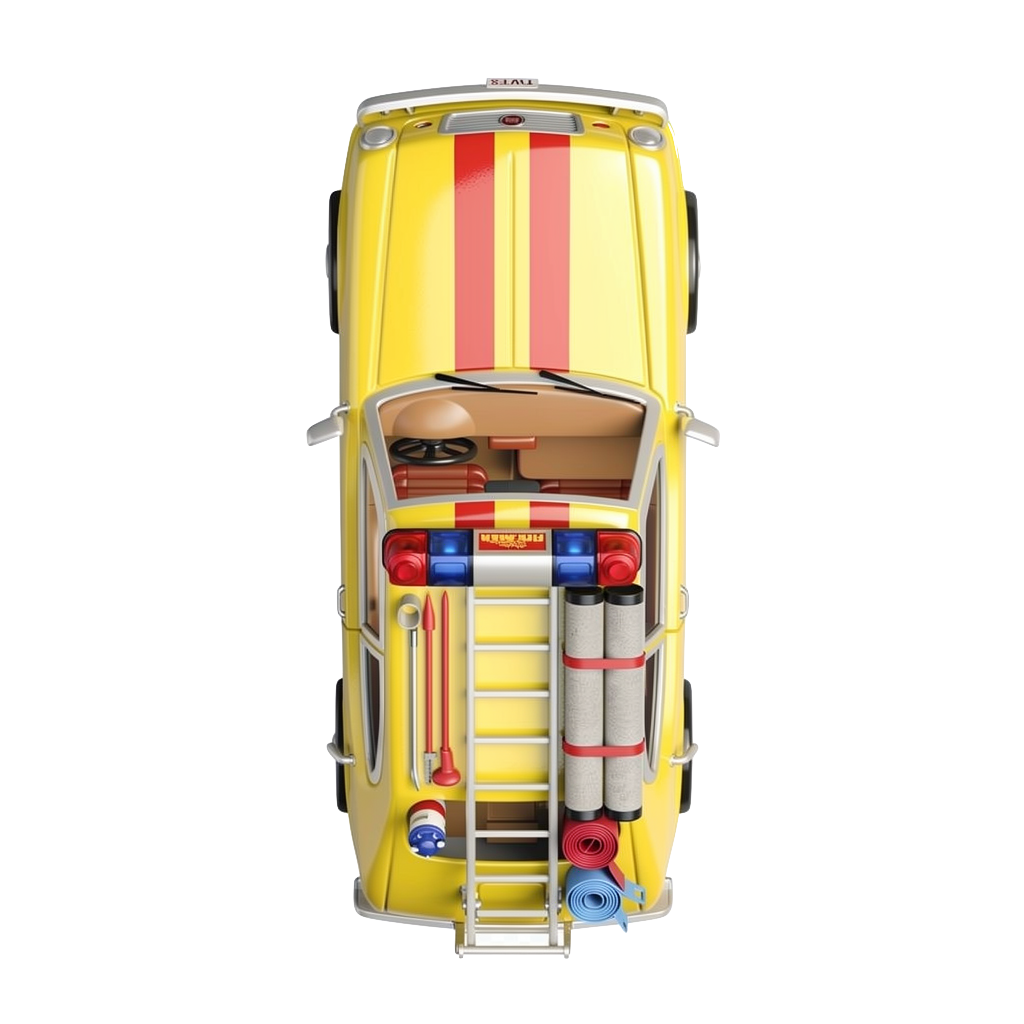
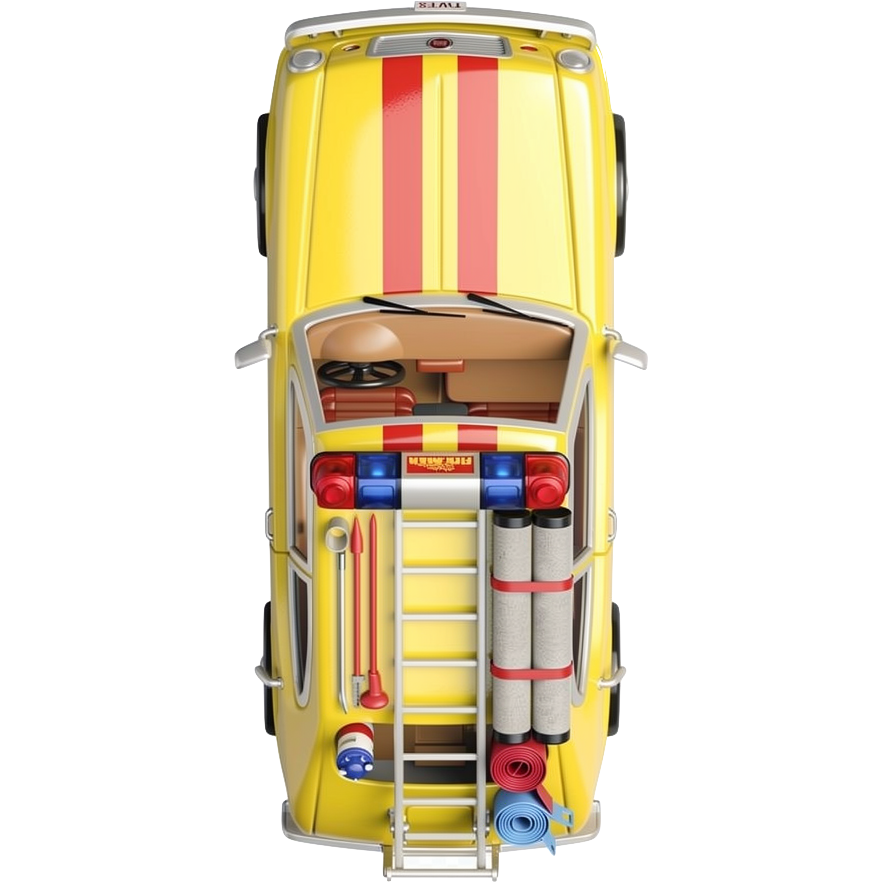
improve vehicle movement and towing

diff --git a/index.html b/index.html
@@ -265,7 +265,7 @@ const WORLD_H = 2400;
 // Reference size: all positions/speeds are authored as fractions of this
 const REF_SIZE = 8192;
 
-// Vehicle sprites: all 1024x1024, hood pointing UP
+// Vehicle sprites: square, tightly cropped, hood pointing UP
 const CAR_SCALE_FACTOR = 0.065;  // base vehicle size in world = worldW * this
 
 // ============================================================
@@ -697,7 +697,7 @@ function lerpAngle(a, b, t) {
 }
 
 function getCarSize(sizeMul) {
-  // All vehicle sprites are square (1024x1024)
+  // All vehicle sprites are square, tightly cropped
   var carS = worldW * CAR_SCALE_FACTOR * (sizeMul || 1);
   return { w: carS, h: carS };
 }
@@ -1030,7 +1030,7 @@ function updateTowing(dt) {
 
       // Rope physics: gradually turn towed vehicle toward the anchor,
       // then position it at rope distance behind the anchor
-      var ropeLen = towedCs.h * 0.4;  // visible rope gap
+      var ropeLen = towedCs.h * 0.3;  // visible rope gap
       var fullLen = towedCs.h * 0.5 + ropeLen;
 
       // Direction from towed vehicle's current position to anchor = rope pull direction
@@ -1140,6 +1140,7 @@ var tapStartX = 0, tapStartY = 0;
 // Dragging state
 var draggedVehicle = null;   // vehicle being steered
 var isDragging = false;       // committed to dragging (past threshold)
+var isTouch = false;          // current interaction is touch (not mouse)
 
 function getPointerArray() { return Object.values(pointers); }
 
@@ -1183,7 +1184,7 @@ function setupInput() {
   viewport.addEventListener('pointerdown', function(e) {
     if (e.target.closest('.ui-btn')) return;
     e.preventDefault();
-    pointers[e.pointerId] = { x: e.clientX, y: e.clientY };
+    pointers[e.pointerId] = { x: e.clientX, y: e.clientY, type: e.pointerType };
     var pArr = getPointerArray();
 
     if (pArr.length === 1) {
@@ -1193,6 +1194,7 @@ function setupInput() {
       tapStartX = e.clientX; tapStartY = e.clientY;
       isPanning = false;
       isDragging = false;
+      isTouch = e.pointerType === 'touch';
 
       // Check if finger landed on a vehicle (skip towed vehicles entirely)
       var hitV = getVehicleAtScreen(e.clientX, e.clientY, true);
@@ -1218,6 +1220,8 @@ function setupInput() {
       var totalDist = Math.sqrt(totalDx * totalDx + totalDy * totalDy);
 
       // Commit to drag-car or pan-map once past threshold
+      // Touch: single finger only drags vehicles, never pans (use two fingers to pan)
+      // Mouse: single pointer can drag vehicles or pan the map
       if (!isPanning && !isDragging && totalDist > 10) {
         touchMoved = true;
         if (draggedVehicle) {
@@ -1225,7 +1229,7 @@ function setupInput() {
           draggedVehicle.dragging = true;
           gameState.activeVehicleId = draggedVehicle.id;
           gameState.cameraFollowing = false;
-        } else {
+        } else if (!isTouch) {
           isPanning = true;
           gameState.cameraFollowing = false;
         }
@@ -1298,7 +1302,7 @@ function setupInput() {
     } else if (pArr.length === 1) {
       var p = pArr[0];
       lastPanX = p.x; lastPanY = p.y;
-      isPanning = true;
+      isPanning = !isTouch;  // don't pan with remaining touch finger
     }
   }, { passive: false });
 
